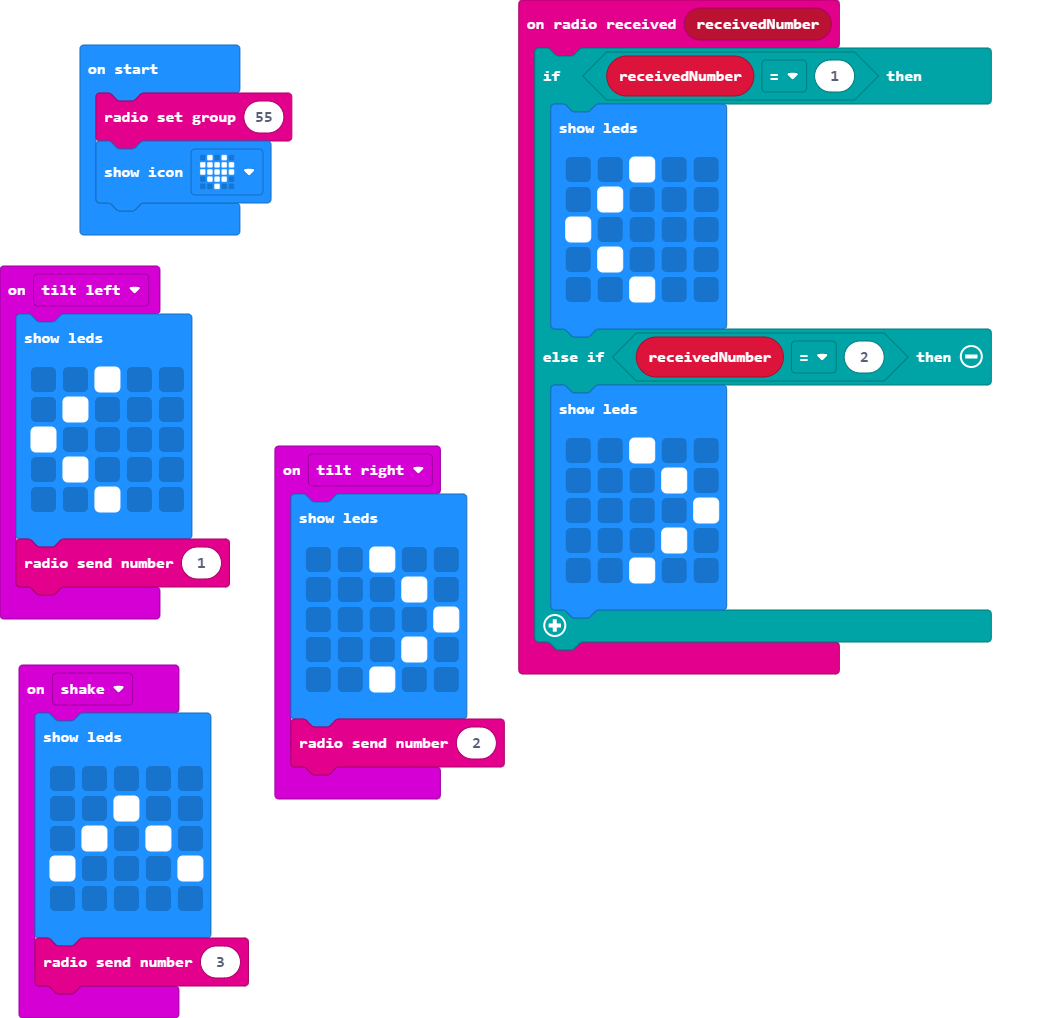
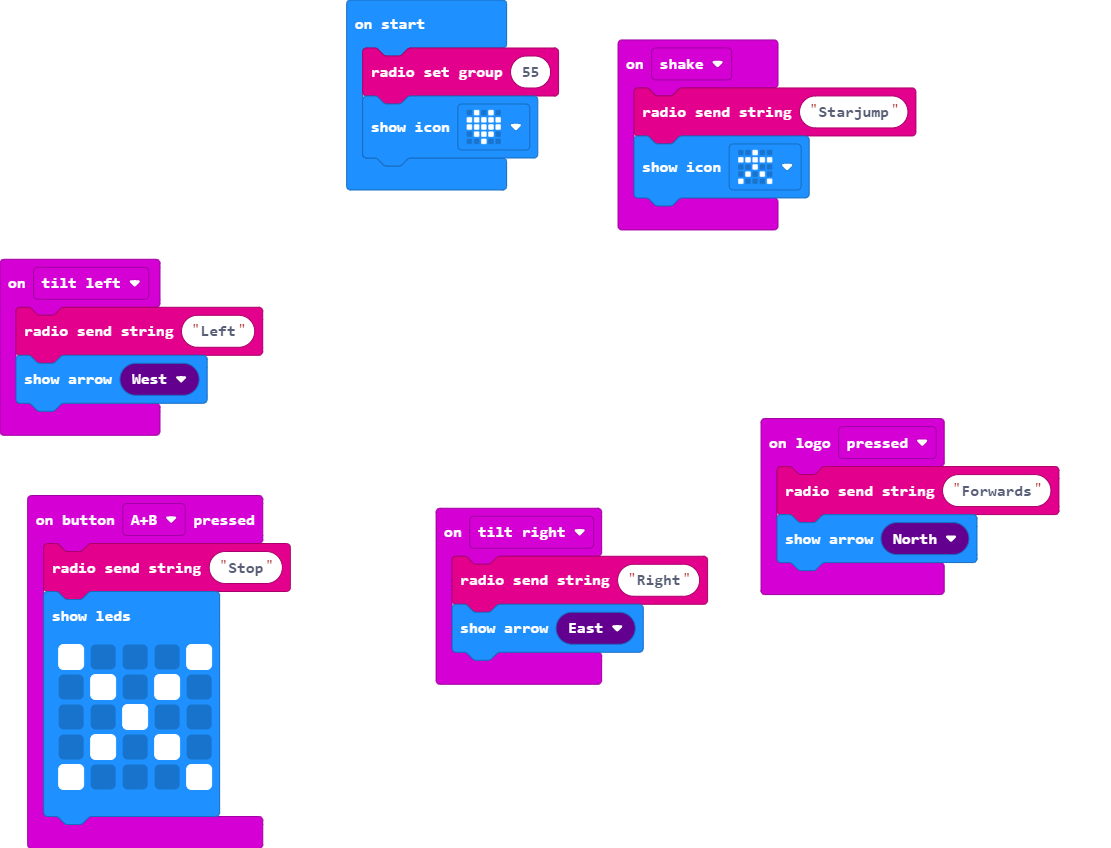
Human remote control

diff --git a/main.ts b/main.ts
@@ -1,51 +1,28 @@
-radio.onReceivedNumber(function (receivedNumber) {
-    if (receivedNumber == 1) {
-        basic.showLeds(`
-            . . # . .
-            . # . . .
-            # . . . .
-            . # . . .
-            . . # . .
-            `)
-    } else if (receivedNumber == 2) {
-        basic.showLeds(`
-            . . # . .
-            . . . # .
-            . . . . #
-            . . . # .
-            . . # . .
-            `)
-    }
-})
 input.onGesture(Gesture.TiltLeft, function () {
-    basic.showLeds(`
-        . . # . .
-        . # . . .
-        # . . . .
-        . # . . .
-        . . # . .
-        `)
-    radio.sendNumber(1)
+    radio.sendString("Left")
+    basic.showArrow(ArrowNames.West)
 })
-input.onGesture(Gesture.Shake, function () {
+input.onButtonPressed(Button.AB, function () {
+    radio.sendString("Stop")
     basic.showLeds(`
-        . . . . .
+        # . . . #
+        . # . # .
         . . # . .
         . # . # .
         # . . . #
-        . . . . .
         `)
-    radio.sendNumber(3)
+})
+input.onGesture(Gesture.Shake, function () {
+    radio.sendString("Starjump")
+    basic.showIcon(IconNames.StickFigure)
 })
 input.onGesture(Gesture.TiltRight, function () {
-    basic.showLeds(`
-        . . # . .
-        . . . # .
-        . . . . #
-        . . . # .
-        . . # . .
-        `)
-    radio.sendNumber(2)
+    radio.sendString("Right")
+    basic.showArrow(ArrowNames.East)
+})
+input.onLogoEvent(TouchButtonEvent.Pressed, function () {
+    radio.sendString("Forwards")
+    basic.showArrow(ArrowNames.North)
 })
 radio.setGroup(55)
 basic.showIcon(IconNames.Heart)
